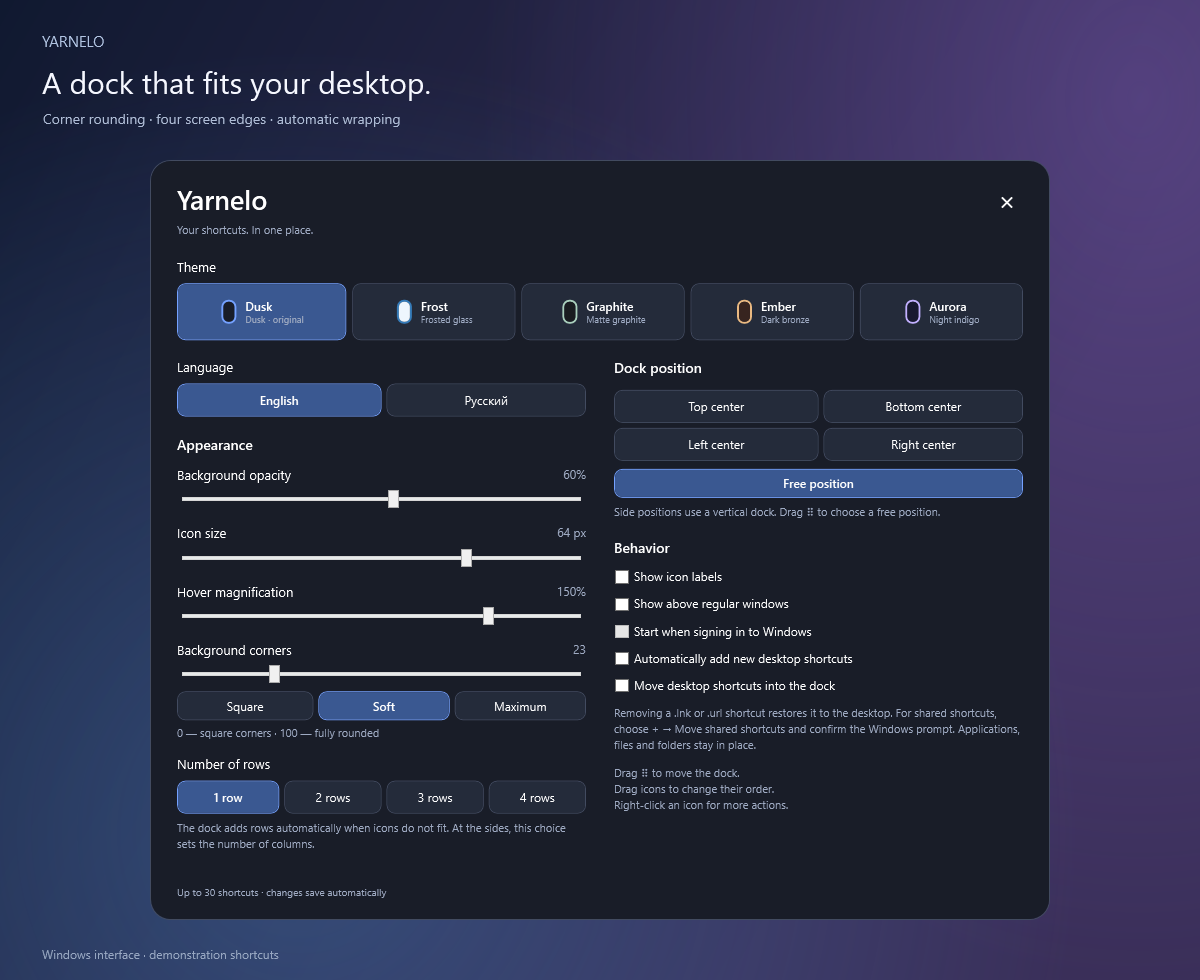
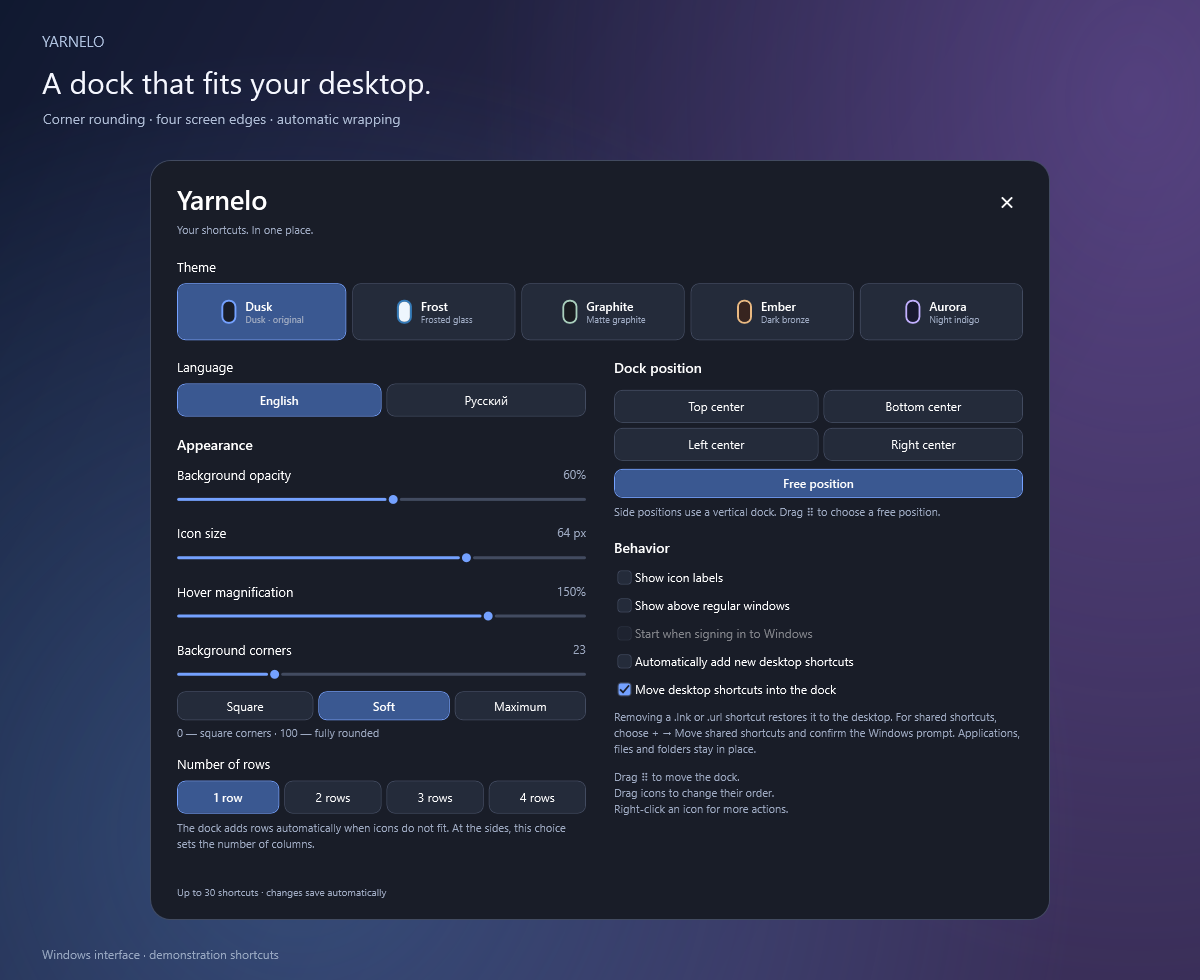
Unify Dusk settings controls with other themes for 1.8.1 [skip ci]

Changed region(s): [[0.1542, 0.5816, 0.8633, 0.8265], [0.1542, 0.551, 0.4933, 0.5816], [0.1542, 0.4898, 0.4933, 0.5204]]

diff --git a/linux/yarnelo_themes.py b/linux/yarnelo_themes.py
@@ -1,7 +1,8 @@
 """Five native, Qt-independent appearance and motion presets.
 
-Dusk keeps the pre-theme Linux colors and motion. Materials are painted colors
-and gradients; no backdrop blur or platform-specific window hooks are required.
+Dusk keeps the pre-theme dock colors and motion while all five themes share
+the same controls. Materials are painted colors and gradients; no backdrop blur
+or platform-specific window hooks are required.
 """
 
 from dataclasses import dataclass
@@ -45,24 +46,8 @@ def default_appearance(theme: str) -> dict[str, float]:
     return {"opacity": value.opacity, "corner_radius": value.corner_radius}
 
 
-LEGACY_STYLESHEET = """
-    QMenu, QDialog { background: #1c2334; color: #f2f3fc; }
-    QMenu { border: 1px solid #566078; border-radius: 9px; padding: 6px; }
-    QMenu::item { padding: 7px 22px; border-radius: 5px; }
-    QMenu::item:selected { background: #46547b; }
-    QMenu::separator { height: 1px; background: #455068; margin: 5px 9px; }
-    QSpinBox, QDoubleSpinBox, QComboBox { color: #f2f3fc; background: #303b52; padding: 4px; }
-    QComboBox QAbstractItemView { color: #f2f3fc; background: #303b52; selection-background-color: #46547b; }
-    QLabel, QCheckBox { color: #f2f3fc; }
-    QPushButton { padding: 6px 14px; }
-    QToolTip { background: #222b40; color: white; border: 1px solid #6b7891; padding: 5px; }
-"""
-
-
 def stylesheet(theme: str) -> str:
     value = THEMES[theme]
-    if theme == "dusk":
-        return LEGACY_STYLESHEET + '\nQLabel[tone="muted"] { color: #b8c6e2; }'
     return f"""
         QMenu, QDialog {{ background: {value.sheet}; color: {value.foreground}; }}
         QMenu {{ background: {value.menu}; border: 1px solid {value.edge}; border-radius: 9px; padding: 6px; }}

diff --git a/src/SettingsWindow.cs b/src/SettingsWindow.cs
@@ -216,7 +216,7 @@ namespace Polka {
             Grid.SetColumn(label,1); row.Children.Add(label); target.Children.Add(row);
             var slider=new Slider { Minimum=min, Maximum=max, Value=value, TickFrequency=1, IsSnapToTickEnabled=true,
                 Margin=new Thickness(0,7,0,16), Foreground=ThemePalette.Brush(palette.Accent), Tag="setting-"+key };
-            if(!palette.Original) slider.Template=SliderTemplate();
+            slider.Template=SliderTemplate();
             System.Windows.Automation.AutomationProperties.SetName(slider,L10n.T(key));
             slider.ValueChanged+=delegate { set(slider.Value); label.Text=Math.Round(slider.Value)+unit; dock.ApplySettings(); dock.SaveQuietly(); };
             target.Children.Add(slider); return slider;
@@ -224,7 +224,7 @@ namespace Polka {
         CheckBox AddCheck(Panel target,string key,bool value,Action<bool> set) {
             var box=new CheckBox { Content=new TextBlock { Text=L10n.T(key), TextWrapping=TextWrapping.Wrap }, IsChecked=value,
                 FontSize=12, Foreground=ThemePalette.Brush(palette.Foreground), Margin=new Thickness(0,0,0,12), Cursor=Cursors.Hand, Tag="setting-"+key };
-            if(!palette.Original) box.Template=CheckTemplate();
+            box.Template=CheckTemplate();
             System.Windows.Automation.AutomationProperties.SetName(box,L10n.T(key));
             bool updating=false, accepted=value;
             RoutedEventHandler change=delegate {

diff --git a/src/LocalizationUiTests.cs b/src/LocalizationUiTests.cs
@@ -65,7 +65,7 @@ namespace Polka {
                     var tooltip=(ToolTip)Field<List<DockWindow.IconView>>(dock,"views")[0].Button.ToolTip;
                     Check(((SolidColorBrush)tooltip.Background).Color==palette.Hint && ((SolidColorBrush)tooltip.Foreground).Color==palette.Foreground,"icon tooltip follows both light and dark themes");
                     Check(((SolidColorBrush)dock.ContextMenu.Background).Color==palette.Menu && ((SolidColorBrush)dock.ContextMenu.Foreground).Color==palette.Foreground,"context menu follows the selected theme");
-                    if(id!="dusk") Check(Visuals((DependencyObject)settings.Content).OfType<Slider>().All(slider=>slider.Template!=null),"new theme sliders use the matching production template");
+                    Check(Visuals((DependencyObject)settings.Content).OfType<Slider>().All(slider=>slider.Template!=null),"all five themes use the matching production slider template");
                     CheckSettingsSheet(settings,directory,language+"-"+id);
                 }
             }

diff --git a/scripts/ScreenshotRenderer.cs b/scripts/ScreenshotRenderer.cs
@@ -171,6 +171,7 @@ namespace Polka {
             submenu.Measure(new Size(double.PositiveInfinity,double.PositiveInfinity));
             Layout(submenu,Math.Max(150,submenu.DesiredSize.Width),submenu.DesiredSize.Height);
             Save(Path.Combine(output,"yarnelo-language-menu.png"),1440,670,"English or Russian. Your choice.","Change the interface language from the dock menu. Your choice is saved.",panel,new Rect(110,440,dock.Width,dock.Height),menu,new Rect(900,177,menuWidth,menuHeight),submenu,new Rect(900+menuWidth+4,330,submenu.ActualWidth,submenu.ActualHeight));
+            store.Settings.MoveDesktopShortcuts=true;
             foreach(string code in new[]{"en","ru"}) {
                 store.Settings.Language=code; L10n.SetLanguage(code);
                 var settings=new SettingsWindow(dock);

diff --git a/src/Program.cs b/src/Program.cs
@@ -9,8 +9,8 @@ using System.Runtime.InteropServices;
 [assembly: AssemblyDescription("Yarnelo — shortcut dock for Windows")]
 [assembly: AssemblyCompany("Yarnelo")]
 [assembly: AssemblyProduct("Yarnelo")]
-[assembly: AssemblyVersion("1.8.0.0")]
-[assembly: AssemblyFileVersion("1.8.0.0")]
+[assembly: AssemblyVersion("1.8.1.0")]
+[assembly: AssemblyFileVersion("1.8.1.0")]
 
 namespace Polka {
     internal static class Program {

diff --git a/linux/yarnelo_model.py b/linux/yarnelo_model.py
@@ -16,7 +16,7 @@ from typing import Any
 from yarnelo_i18n import LANGUAGES, text
 from yarnelo_themes import THEMES, THEME_IDS, default_appearance
 
-VERSION = "1.8.0"
+VERSION = "1.8.1"
 MAX_ITEMS = 30
 PLACEMENTS = ("free", "bottom", "top", "left", "right")
 

diff --git a/assets/screenshots/README.md b/assets/screenshots/README.md
@@ -1,8 +1,8 @@
 # Screenshot details / О скриншотах
 
-All seven images are captures of **actual Windows WPF controls from Yarnelo 1.8.0**, rendered on a neutral presentation background. Five show a one-row dock with hover magnification, a compact four-row dock with one-line captions, the English/Russian language menu and settings in both languages. Two comparison boards, in English and Russian, show **Dusk**, **Frost**, **Graphite**, **Ember** and **Aurora** using the production dock controls. Settings include the five-theme picker, **Show icon labels** and **Automatically add new desktop shortcuts**, which is off by default. Long captions are shortened to fit the compact icon cells. The background, comparison labels, headings and footer are presentation artwork, not controls in the app. The Linux interface uses Qt and looks different.
+All seven images show **actual Windows WPF controls**, rendered on a neutral presentation background. The **two settings captures are from Yarnelo 1.8.1** and show Dusk's modern accent sliders with round thumbs, rounded checkboxes and the five-theme picker. Their control selections are demonstration values; **Automatically add new desktop shortcuts** is shown off, matching its default. The **other five captures are from Yarnelo 1.8.0**: a one-row dock with hover magnification, a compact four-row dock with one-line captions, the English/Russian language menu, and two theme-comparison boards in English and Russian. Those boards show **Dusk**, **Frost**, **Graphite**, **Ember** and **Aurora** using the production dock controls. Long captions are shortened to fit the compact icon cells. The background, comparison labels, headings and footer are presentation artwork, not controls in the app. The Linux interface uses Qt and looks different.
 
-Все семь изображений показывают **настоящие WPF-элементы Windows из Yarnelo 1.8.0**, отрисованные на нейтральном фоне. Пять кадров демонстрируют один ряд с увеличением при наведении, компактные четыре ряда с однострочными подписями, меню языка и настройки на обоих языках. Две сравнительные подборки на русском и английском показывают **Dusk**, **Frost**, **Graphite**, **Ember** и **Aurora**, отрисованные настоящими элементами панели. В настройках видны выбор пяти тем, **«Подписи под значками»** и **«Автоматически добавлять новые ярлыки с рабочего стола»**, по умолчанию выключенная. Длинные подписи сокращаются по ширине компактных ячеек. Фон, названия в сравнительной подборке, заголовки и нижняя подпись добавлены для оформления, они не являются интерфейсом приложения. Linux-версия использует Qt и выглядит иначе.
+Все семь изображений показывают **настоящие WPF-элементы Windows**, отрисованные на нейтральном фоне. **Два кадра настроек сделаны в Yarnelo 1.8.1**: в Dusk видны современные акцентные ползунки с круглыми бегунками, скруглённые галочки и выбор пяти тем. Значения элементов выбраны для демонстрации; **«Автоматически добавлять новые ярлыки с рабочего стола»** показана выключенной, как и по умолчанию. **Остальные пять кадров сделаны в Yarnelo 1.8.0**: один ряд с увеличением при наведении, компактные четыре ряда с однострочными подписями, меню языка и две сравнительные подборки тем на русском и английском. Подборки показывают **Dusk**, **Frost**, **Graphite**, **Ember** и **Aurora**, отрисованные настоящими элементами панели. Длинные подписи сокращаются по ширине компактных ячеек. Фон, названия в сравнительной подборке, заголовки и нижняя подпись добавлены для оформления, они не являются интерфейсом приложения. Linux-версия использует Qt и выглядит иначе.
 
 The demo includes Windows system icons, Yarnelo, Steam, Microsoft Edge, Spotify, Control, Warframe, Starfield, Lies of P, Enshrouded, Resident Evil 7, The Ascent, Hail to the Rainbow, Dragon's Dogma 2 and Crimson Desert. Third-party app/game names and icons belong to their respective owners and appear only to illustrate user-added shortcuts. The programs and shortcut collection are not bundled with Yarnelo; no endorsement or affiliation is implied. Yarnelo's all-rights-reserved notice does not extend to third-party icons.
 

diff --git a/linux/README.md b/linux/README.md
@@ -29,7 +29,7 @@ System requirements include a graphical desktop, Qt/X11 or Wayland libraries, `x
 - **Settings → Position** or the right-click **Position** submenu places the dock at the top, bottom, left or right center. Side docks are vertical and keep icons upright. A selected edge remains centered when the screen or dock size changes. Drag the handle or unused background to switch to free positioning; the handle is at the top for a side dock and on the left for a horizontal dock. The menu can also select a monitor. Wayland window managers may restrict positioning.
 - Right-click → **Language / Язык → English / Русский** switches the interface without restarting and saves the choice. The initial default is Russian for a Russian locale, English otherwise.
 - Settings use two columns without a vertical scrollbar. They control preferred rows, background opacity (icons keep their contrast), corner rounding, size, magnification and labels. Corner rounding **0** gives square corners; **100** makes the background fully rounded.
-- **Settings → Theme → OK** selects Dusk, Frost, Graphite, Ember or Aurora for the dock, menus and settings. **Cancel** leaves saved settings unchanged. Dusk preserves the original appearance and your background when upgrading; each theme remembers its own opacity and corner rounding. Initial Frost/Graphite/Ember/Aurora presets are respectively **76% / 22**, **96% / 12**, **85% / 16**, **88% / 24**. Icon size, magnification, rows, position and behavior preferences are preserved.
+- **Settings → Theme → OK** selects Dusk, Frost, Graphite, Ember or Aurora for the dock, menus and settings. **Cancel** leaves saved settings unchanged. Dusk preserves the original dock colors, motion and your background when upgrading; each theme remembers its own opacity and corner rounding. All five share modern settings controls. Initial Frost/Graphite/Ember/Aurora presets are respectively **76% / 22**, **96% / 12**, **85% / 16**, **88% / 24**. Icon size, magnification, rows, position and behavior preferences are preserved.
 - Each theme tunes hover, click and drag motion. Aurora's edge highlight is interaction-only; the dock has no idle flare. Palettes use native Qt colors, translucency, borders and shadows, including contrasting text on Frost's light controls. [Theme details](../docs/LINUX.md#themes).
 - **Show labels** enables compact one-line captions. Long captions are shortened to fit; hovering an icon shows its name. Existing label preferences are retained.
 - **Settings → Start when signing in → OK** enables current-user XDG autostart; the default is off. **Cancel** does not change the entry. Keep portable/source copies in a permanent location before enabling it. [Startup and removal details](../docs/LINUX.md#startup-at-sign-in).

diff --git a/README.ru.md b/README.ru.md
@@ -23,13 +23,13 @@ Yarnelo — полупрозрачная панель ярлыков для **Wi
 | --- | --- |
 | ![Yarnelo с несколькими рядами ярлыков](assets/screenshots/yarnelo-multi-row.png) | ![Меню выбора языка Yarnelo](assets/screenshots/yarnelo-language-menu.png) |
 
-![Настройки Yarnelo 1.8.0: выбор темы, компактные подписи и необязательное автоматическое добавление новых ярлыков](assets/screenshots/yarnelo-settings-ru.png)
+![Настройки Dusk в Yarnelo 1.8.1: современные ползунки, скруглённые галочки и выбор темы](assets/screenshots/yarnelo-settings-ru.png)
 
 ## Возможности
 
 - До **30 ярлыков**: от одного до четырёх выбранных рядов и автоматический перенос, если места на экране недостаточно.
 - Настраиваемые непрозрачность и скругление фона — от прямых углов до капсулы; размер значков и увеличение при наведении.
-- Пять тем для панели, меню и настроек: **Dusk**, **Frost**, **Graphite**, **Ember** и **Aurora**. У каждой запоминаются свои непрозрачность и скругление; Dusk сохраняет прежний вид и выбранный вами фон.
+- Пять тем для панели, меню и настроек: **Dusk**, **Frost**, **Graphite**, **Ember** и **Aurora**. У каждой запоминаются свои непрозрачность и скругление; Dusk сохраняет прежние цвета панели, анимации и выбранный вами фон. Во всех пяти темах используются современные элементы настроек.
 - Необязательные компактные однострочные подписи: **«Подписи под значками»** в Windows или **«Показывать подписи»** в Linux. Название также видно при наведении на значок.
 - Размещение по центру сверху, снизу, слева или справа. Боковая панель становится вертикальной; перетаскивание ручки включает свободное размещение.
 - Широкое окно настроек в два столбца: все пункты на одной странице без вертикальной прокрутки.

diff --git a/docs/RELEASE_NOTES.md b/docs/RELEASE_NOTES.md
@@ -1,8 +1,8 @@
-# Yarnelo 1.8.0 — Five themes / Пять тем
+# Yarnelo 1.8.1 — Modern Dusk controls / Современные элементы Dusk
 
 ## English
 
-This release adds **five themes for the dock, menus and settings on Windows and Linux**. The original appearance remains available as **Dusk**. Existing backgrounds, shortcut profiles, compact labels, startup and automatic addition of new desktop shortcuts are preserved; all 14 Intel/AMD and native ARM64 packages remain available.
+This release updates **Dusk's settings and menu controls to match the common style of the other themes**. Windows has thin accent sliders with round thumbs and rounded checkboxes; Linux uses the same slider, button and menu styling as the other four themes. Dusk retains its dock colors, motion, default opacity and saved backgrounds. All five themes, shortcut profiles, compact labels, startup and automatic addition of new desktop shortcuts are preserved; all 14 Intel/AMD and native ARM64 packages remain available.
 
 ### Themes
 
@@ -85,7 +85,7 @@ Windows installers run per user and retain `Data` on update/removal. Update a po
 
 ## Русский
 
-В Windows и Linux добавлены **пять тем для панели, меню и настроек**. Прежний вид доступен как **Dusk («Сумерки», базовая)**. Выбранный фон, профили ярлыков, компактные подписи, автозапуск и автоматическое добавление новых ярлыков сохраняются; доступны все 14 пакетов Intel/AMD и нативных ARM64.
+**Элементы настроек и меню Dusk приведены к общему стилю остальных тем**. В Windows используются тонкие акцентные ползунки с круглыми бегунками и скруглённые галочки; в Linux — то же оформление ползунков, кнопок и меню, что у остальных четырёх тем. Цвета панели Dusk, анимации, непрозрачность по умолчанию и сохранённый фон остаются прежними. Все пять тем, профили ярлыков, компактные подписи, автозапуск и автоматическое добавление новых ярлыков сохраняются; доступны все 14 пакетов Intel/AMD и нативных ARM64.
 
 ### Темы
 

diff --git a/docs/LINUX.ru.md b/docs/LINUX.ru.md
@@ -177,6 +177,8 @@ Yarnelo создаёт `yarnelo.desktop` в `$XDG_CONFIG_HOME/autostart` или 
 
 В **Настройки → Тема** выберите **Dusk («Сумерки», базовая)**, **Frost («Матовое стекло»)**, **Graphite («Матовый графит»)**, **Ember («Тёмная бронза»)** или **Aurora («Ночной индиго»)** и нажмите **OK**. **«Отмена»** оставляет сохранённую тему и настройки без изменений. Меню и настройки используют выбранную палитру; в светлой Frost текст остаётся контрастным и тёмным.
 
+Dusk использует общий стиль элементов управления остальных четырёх тем: акцентные ползунки, оформленные в цветах темы кнопки и меню. Прежние цвета панели Dusk и анимации сохраняются.
+
 У каждой темы запоминаются собственные непрозрачность и скругление. При первом выборе используются **76% / 22** для Frost, **96% / 12** для Graphite, **85% / 16** для Ember и **88% / 24** для Aurora. После обновления прежний вид остаётся в Dusk с уже выбранными вами параметрами фона. Возврат к Dusk или другой настроенной теме восстанавливает её сохранённый фон. Смена темы не сбрасывает размер значков, увеличение, ряды, положение, компактные подписи, автозапуск и автоматическое добавление ярлыков.
 
 Темы также задают характер анимаций наведения, нажатия и перетаскивания. Край Aurora подсвечивается при взаимодействии; в покое панель не переливается. Оформление использует нативные цвета Qt, полупрозрачность, границы и тени. Описанные выше ограничения композитора X11/XWayland остаются в силе.

diff --git a/README.md b/README.md
@@ -23,13 +23,13 @@ Windows interface demonstrations rendered by Yarnelo with example shortcuts on a
 | --- | --- |
 | ![Yarnelo in a multi-row layout](assets/screenshots/yarnelo-multi-row.png) | ![Yarnelo language selection menu](assets/screenshots/yarnelo-language-menu.png) |
 
-![Yarnelo 1.8.0 settings with theme selection, compact labels and optional automatic desktop-shortcut addition](assets/screenshots/yarnelo-settings-en.png)
+![Yarnelo 1.8.1 Dusk settings with modern sliders, rounded checkboxes and theme selection](assets/screenshots/yarnelo-settings-en.png)
 
 ## Features
 
 - Up to **30 shortcuts**, with one to four preferred rows and automatic wrapping when the screen fills up.
 - Adjustable background opacity and corner rounding, from square corners to a capsule; icon size and hover magnification.
-- Five themes for the dock, menus and settings: **Dusk**, **Frost**, **Graphite**, **Ember** and **Aurora**. Each remembers its own opacity and corner rounding; Dusk keeps your original appearance and background settings.
+- Five themes for the dock, menus and settings: **Dusk**, **Frost**, **Graphite**, **Ember** and **Aurora**. Each remembers its own opacity and corner rounding; Dusk keeps your original dock colors, motion and background settings. All five share modern settings controls.
 - Optional compact one-line captions: **Show icon labels** on Windows or **Show labels** on Linux. Hovering an icon shows its name.
 - Center the dock at the top, bottom, left or right. Side docks run vertically with upright icons; dragging the handle enables free positioning.
 - Wider, two-column settings with every control on one page and no vertical scrolling.
